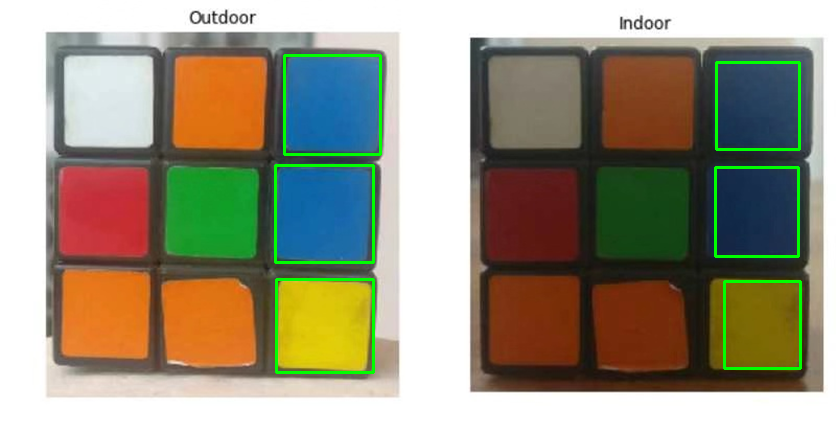
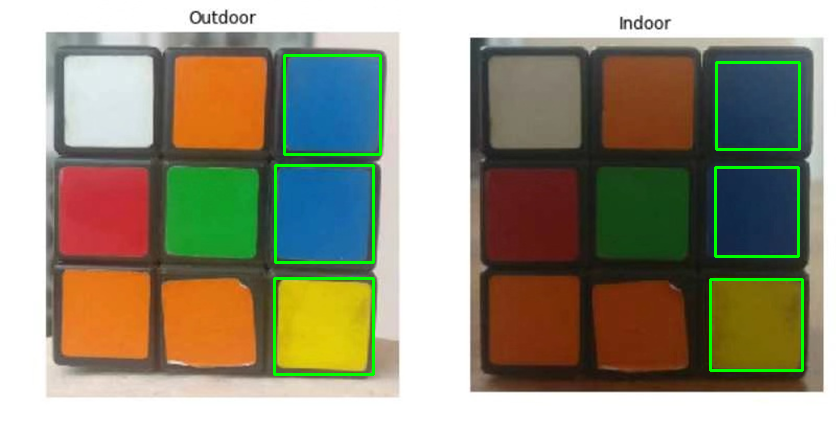
fix: 黄色 V 下限 120→90，修复 Indoor 色块掩膜残缺
- 实测 Indoor 黄 V 值 106~130（中位数 124），V≥120 切掉 17% 像素
- 掩膜占位 75%→96%，外接框 76x87→92x91，块数仍为 2 无新增干扰
- 修复参数区两行被误合并导致 PLATE_R_MAX_RATIO 未定义的问题

Changed region(s): [[0.8397, 0.6334, 0.9641, 0.8747], [0.311, 0.6334, 0.4665, 0.8747]]

diff --git a/task2_basic_vision.py b/task2_basic_vision.py
@@ -14,7 +14,7 @@ from utils import (gray_to_bgr, hstack_same_height, imread_unicode,
 # 注意 S 不能卡太高：真实照片里 Indoor 那半边偏暗，蓝色块的 S 只有 150 左右。
 BLUE_LOWER = np.array([100, 120, 70])
 BLUE_UPPER = np.array([130, 255, 255])
-YELLOW_LOWER = np.array([20, 120, 120])
+YELLOW_LOWER = np.array([20, 120, 90])
 YELLOW_UPPER = np.array([35, 255, 255])
 
 MIN_AREA = 300      # 小于这个面积的色块当噪声丢掉
